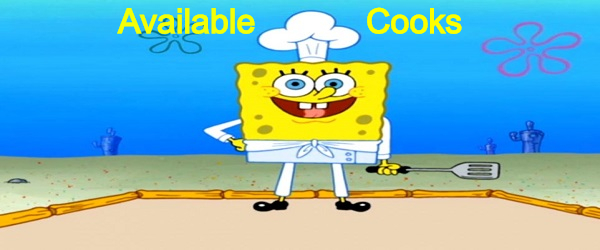
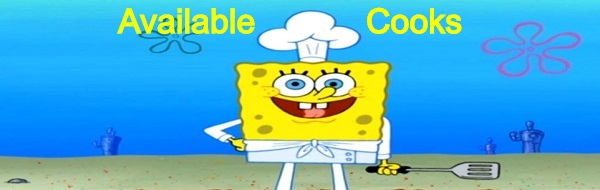
mo4kelet l ra3sha is solved

diff --git a/Restaurant/GUI/GUI.cpp b/Restaurant/GUI/GUI.cpp
@@ -123,7 +123,7 @@ void GUI::ClearStatusBar() const
 	/*pWind->SetPen(WHITE, 3);
 	pWind->SetBrush(WHITE);
 	pWind->DrawRectangle(0, WindHeight - StatusBarHeight , WindWidth, WindHeight);	*/
-	pWind->DrawImage("GUI\\d.jpg", 0, WindHeight - StatusBarHeight, WindWidth, StatusBarHeight);
+	pWind->DrawImage("GUI\\d.jpg", 0, WindHeight - StatusBarHeight, WindWidth+2, StatusBarHeight);
 
 	pWind->SetPen(DARKBLUE, 3);
 	pWind->DrawLine(0, WindHeight - StatusBarHeight, WindWidth, WindHeight - StatusBarHeight);
@@ -135,10 +135,12 @@ void GUI::ClearDrawingArea() const
 	//pWind->SetPen(PINK, 3);
 	//pWind->SetBrush(PINK);
 	//pWind->DrawRectangle(0, MenuBarHeight, WindWidth, WindHeight - StatusBarHeight);
-	pWind->DrawImage("GUI\\waiting3.jpg", 0, MenuBarHeight, WindWidth / 2, (WindHeight - StatusBarHeight) / 2);
-	pWind->DrawImage("GUI\\chef.jpg", WindWidth / 2, MenuBarHeight, WindWidth / 2, (WindHeight - StatusBarHeight) / 2);
-	pWind->DrawImage("GUI\\6.jpg", 0, MenuBarHeight + (WindHeight - StatusBarHeight) / 2, WindWidth / 2, (WindHeight - StatusBarHeight) / 2);
-	pWind->DrawImage("GUI\\38.jpg", WindWidth / 2, MenuBarHeight + (WindHeight - StatusBarHeight) / 2, WindWidth / 2, (WindHeight - StatusBarHeight) / 2);
+	pWind->DrawImage("GUI\\waiting3.jpg", 0, MenuBarHeight, (WindWidth / 2)-1, (WindHeight - StatusBarHeight) / 2-60);
+	pWind->DrawImage("GUI\\waiting3-2.jpg", 0, MenuBarHeight + (WindHeight - StatusBarHeight) / 2-60, WindWidth / 2-60,59);
+	pWind->DrawImage("GUI\\chef.jpg", WindWidth / 2+2, MenuBarHeight, WindWidth / 2, (WindHeight - StatusBarHeight) / 2-60);
+	pWind->DrawImage("GUI\\chef-2.jpg", WindWidth / 2+61, MenuBarHeight + (WindHeight - StatusBarHeight) / 2 - 60, WindWidth / 2-58,59);
+	pWind->DrawImage("GUI\\6.jpg", 0, MenuBarHeight + ((WindHeight - StatusBarHeight) / 2)+1, WindWidth / 2, (WindHeight - StatusBarHeight) / 2-2);
+	pWind->DrawImage("GUI\\38.jpg", WindWidth / 2, MenuBarHeight + (WindHeight - StatusBarHeight) / 2 +1, WindWidth / 2+3, (WindHeight - StatusBarHeight) / 2-2);
 
 }
 void GUI::ClearStatusBar(int line) const

diff --git a/Restaurant/GUI/GUI.h b/Restaurant/GUI/GUI.h
@@ -103,10 +103,9 @@ private:
 	void DrawString(const int iX, const int iY, const string Text); // prints a message in the passed coordinates
 	void DrawString1(const int iX, const int iY, const string Text);
 
-	void DrawRestArea() const;	    // draws the restaurant area
 
 	
-	void ClearDrawingArea() const;	// clears the Drawing area from all drawings
+	
 
 public:
 	GUI();
@@ -119,7 +118,8 @@ public:
 	// Output Functions  ---------------------------
 	void PrintMessage(string msg, char* font="Jokerman") const; // prints a message in the status bar
 	void ClearStatusBar() const;    // clears the status bar
-
+	void ClearDrawingArea() const;	// clears the Drawing area from all drawings
+	void DrawRestArea() const;	    // draws the restaurant area
 	void UpdateInterface();
 	void AddToDrawingList(Order* pOrd);	//Adds a new order to the drawing queue
 	void AddToDrawingList(Cook* pC);	//Adds a new cook to the drawing queue

diff --git a/Restaurant/Rest/Restaurant.cpp b/Restaurant/Rest/Restaurant.cpp
@@ -814,6 +814,7 @@ void Restaurant::Restaurant_Modes(int Mode)
 		pGUI->waitForClick();
 		fileLoading();
 		int CurrentTimeStep = 1;
+		
 		while (!EventsQueue.isEmpty() || !InServing.isEmpty() || !QVIP_Order.isEmpty() || !Qvegan_Order.isEmpty() || !LNormal_Order.isEmpty())
 		{
 			pGUI->ClearStatusBar();
